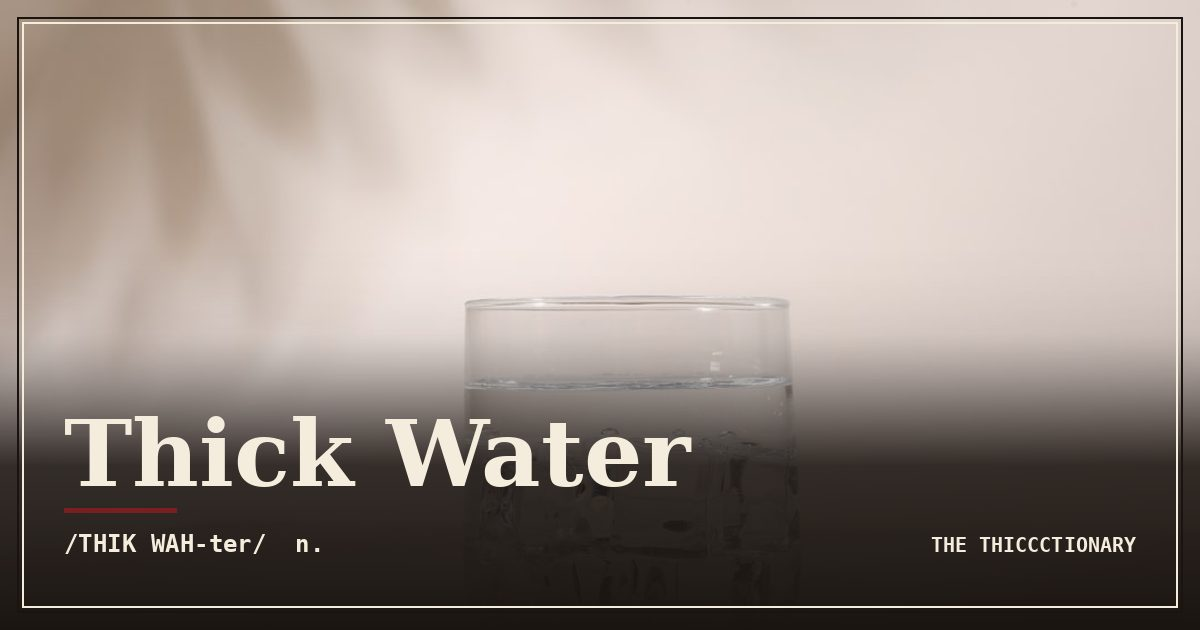
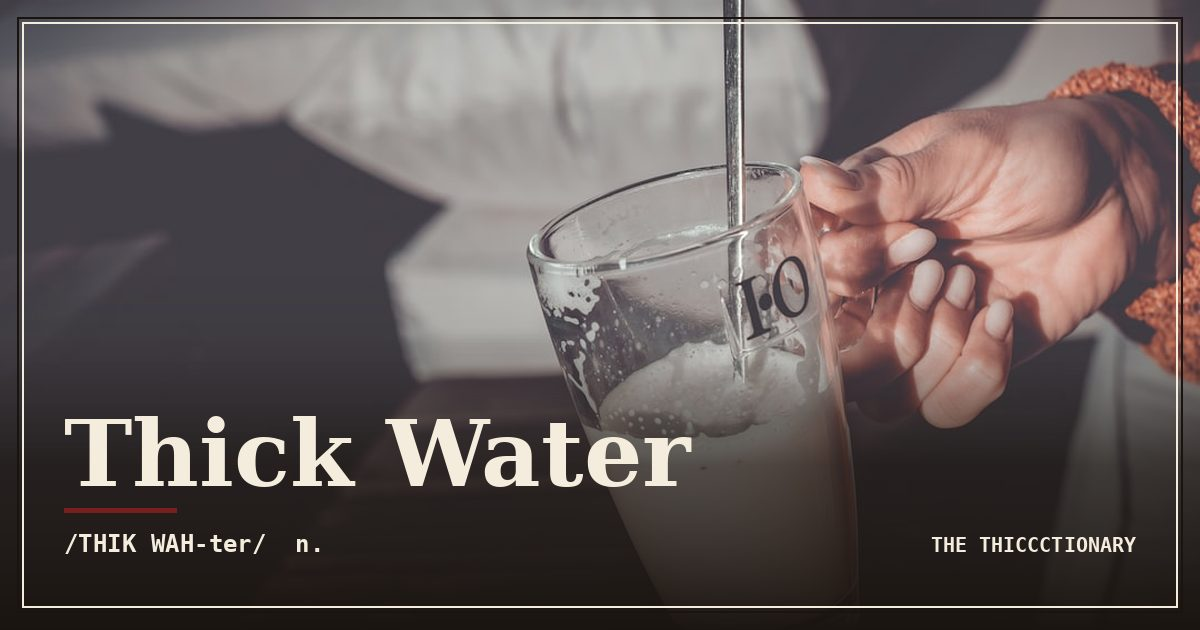
🖼 Regenerated images, (#217)
* Regen run log 30176471315

* Regenerate images for older entries (tuned prompt)

---------

diff --git a/entries/2026-04-14.html b/entries/2026-04-14.html
@@ -80,7 +80,7 @@
       "headline": "Thick Water, Thiccctionary",
       "name": "Thick Water",
       "description": "Thick Water: A pre-thickened drinking water formulated for individuals with dysphagia, sold in nectar, honey, and pudding consistencies per the IDDSI…",
-      "image": "https://thiccctionary.com/images/2026-04-14-thickened-water.jpg",
+      "image": "https://thiccctionary.com/images/2026-04-14-thick-water.jpg",
       "datePublished": "2026-04-14",
       "dateModified": "2026-04-14",
       "inLanguage": "en-US",
@@ -181,12 +181,12 @@
       <div class="entry-image-wrap">
         <div class="entry-image">
           <picture>
-            <source srcset="../images/2026-04-14-thickened-water.webp" type="image/webp" />
-            <img src="../images/2026-04-14-thickened-water.jpg" alt="A glass of water thickened to nectar consistency. It holds its shape where ordinary water would have moved on." width="600" height="600" loading="eager" decoding="async" data-pin-do="buttonHover" data-pin-url="https://thiccctionary.com/entries/2026-04-14.html" data-pin-media="https://thiccctionary.com/images/og/2026-04-14.jpg" data-pin-description="Thick Water, a Thiccctionary entry. A pre-thickened drinking water formulated for individuals with dysphagia, sold in nectar, honey, and pudding consistencies per the IDDSI framework. Drunk slowly. Reviewed with respect." />
+            <source srcset="../images/2026-04-14-thick-water.webp" type="image/webp" />
+            <img src="../images/2026-04-14-thick-water.jpg" alt="A glass of water thickened to nectar consistency. It holds its shape where ordinary water would have moved on." width="600" height="600" loading="eager" decoding="async" data-pin-do="buttonHover" data-pin-url="https://thiccctionary.com/entries/2026-04-14.html" data-pin-media="https://thiccctionary.com/images/og/2026-04-14.jpg" data-pin-description="Thick Water, a Thiccctionary entry. A pre-thickened drinking water formulated for individuals with dysphagia, sold in nectar, honey, and pudding consistencies per the IDDSI framework. Drunk slowly. Reviewed with respect." />
           </picture>
         </div>
         <p class="entry-caption">Plate IV., A glass of water thickened to nectar consistency. It holds its shape where ordinary water would have moved on.</p>
-        <p class="entry-credit">Photo by <a href="https://unsplash.com/@giorgiotrovato?utm_source=thiccctionary&amp;utm_medium=referral" target="_blank" rel="noopener">Giorgio Trovato</a> on <a href="https://unsplash.com/?utm_source=thiccctionary&utm_medium=referral" target="_blank" rel="noopener">Unsplash</a></p>
+        <p class="entry-credit">Photo by <a href="https://unsplash.com/@couleuroriginal?utm_source=thiccctionary&amp;utm_medium=referral" target="_blank" rel="noopener">Ilona Frey</a> on <a href="https://unsplash.com/?utm_source=thiccctionary&utm_medium=referral" target="_blank" rel="noopener">Unsplash</a></p>
       </div>
 
       <div class="entry-text">
@@ -254,7 +254,7 @@
     <section class="entry-sources" aria-label="Sources and editorial notes" style="margin: 56px 0 0; padding: 28px 24px; border-top: 1px solid var(--rule); font-size: 14px; line-height: 1.6;">
     <h3 style="font-family: var(--font-mono); font-size: 11px; letter-spacing: 0.2em; text-transform: uppercase; color: var(--oxblood); margin: 0 0 1rem; font-weight: 600;">Sources</h3>
     <ol style="margin: 0; padding-left: 1.5rem; color: var(--ink-soft);">
-      <li style="margin-bottom: 0.5rem;">Photograph by <a href="https://unsplash.com/@giorgiotrovato" target="_blank" rel="noopener">Giorgio Trovato</a>, via <a href="https://unsplash.com/photos/clear-drinking-glass-on-white-table-Hj4QiV9MTi8" target="_blank" rel="noopener">Unsplash</a>. Catalogued under plate IV.</li>
+      <li style="margin-bottom: 0.5rem;">Photograph by <a href="https://unsplash.com/@couleuroriginal" target="_blank" rel="noopener">Ilona Frey</a>, via <a href="https://unsplash.com/photos/a-person-is-holding-a-glass-of-milk-_WOCm2k1qik" target="_blank" rel="noopener">Unsplash</a>. Catalogued under plate IV.</li>
       <li style="margin-bottom: 0.5rem;">Direct ruling URL: <a href="../is/thick-water-thiccc/">thiccctionary.com/is/thick-water-thiccc/</a> &mdash; the shareable "Is a thick water thiccc?" page.</li>
       <li style="margin-bottom: 0.5rem;">Cross-reference: <a href="../a-z.html#T">Thiccctionary A-Z, T</a>.</li>
       <li style="margin-bottom: 0.5rem;">Catalogued under: <a href="../category/domestic-goods/">Domestic Goods</a>. See related entries below.</li>

diff --git a/is/thick-water-thiccc/index.html b/is/thick-water-thiccc/index.html
@@ -43,7 +43,7 @@
       "url": "https://thiccctionary.com/is/thick-water-thiccc/",
       "headline": "Is a Thick Water thiccc?",
       "description": "Yes, a thick water is officially thiccc per the Thiccctionary. A pre-thickened drinking water formulated for individuals with dysphagia, sold in nectar…",
-      "image": "https://thiccctionary.com/images/2026-04-14-thickened-water.jpg",
+      "image": "https://thiccctionary.com/images/2026-04-14-thick-water.jpg",
       "datePublished": "2026-04-14",
       "author": {
         "@type": "Organization",
@@ -167,8 +167,8 @@
       <div class="entry-image-wrap">
         <div class="entry-image">
           <picture>
-            <source srcset="/images/2026-04-14-thickened-water.webp" type="image/webp" />
-            <img src="/images/2026-04-14-thickened-water.jpg" alt="Thick Water, a thiccc subject" width="600" height="600" loading="eager" decoding="async" />
+            <source srcset="/images/2026-04-14-thick-water.webp" type="image/webp" />
+            <img src="/images/2026-04-14-thick-water.jpg" alt="Thick Water, a thiccc subject" width="600" height="600" loading="eager" decoding="async" />
           </picture>
         </div>
         <p class="entry-caption">Plate IV., A glass of water thickened to nectar consistency. It holds its shape where ordinary water would have moved on.</p>

diff --git a/category/domestic-goods/index.html b/category/domestic-goods/index.html
@@ -358,7 +358,7 @@
   </li>
   <li class="cat-card">
     <a href="/entries/2026-04-14.html">
-      <img src="/images/2026-04-14-thickened-water.jpg" alt="A glass of water thickened to nectar consistency. It holds its shape where ordinary water would have moved on." loading="lazy" width="800" height="600" />
+      <img src="/images/2026-04-14-thick-water.jpg" alt="A glass of water thickened to nectar consistency. It holds its shape where ordinary water would have moved on." loading="lazy" width="800" height="600" />
       <div class="cat-card-body">
         <p class="cat-card-word">Thick Water</p>
         <p class="cat-card-def">A pre-thickened drinking water formulated for individuals with dysphagia, sold in nectar, honey, and pudding consistencies per the IDDSI framework.</p>

diff --git a/audits/regen-last-run.md b/audits/regen-last-run.md
@@ -3,11 +3,11 @@
 Written by scripts/regenerate-images.js and committed by the workflow with
 `if: always()`, so it exists even when the run exits non-zero and opens no PR.
 
-- **Run:** [30176290657](https://github.com/christopherlhicks29-create/thiccctionary/actions/runs/30176290657)
-- **Dates requested:** `2026-05-26`
-- **Subject override:** `antique floor standing globe on stand|large world globe on wooden stand|floor globe`
+- **Run:** [30176471315](https://github.com/christopherlhicks29-create/thiccctionary/actions/runs/30176471315)
+- **Dates requested:** `2026-04-14`
+- **Subject override:** `thickened water in a clear cup with spoon|glass of thick liquid held in hand|glass of water`
 - **Result:** 1 replaced
 
 | Date | Word | Outcome | Detail |
 | --- | --- | --- | --- |
-| 2026-05-26 | Globe, Library Floor Model | **replaced** | images/2026-05-26-globe-library-floor-model-ha4f.jpg <- https://unsplash.com/photos/two-antique-globes-stand-in-a-dimly-lit-room-jV-pxYr-qsY (score=7, subject%=35, saw "two antique floor standing globes on wooden stands", stranger sees "antique globes") |
+| 2026-04-14 | Thick Water | **replaced** | images/2026-04-14-thick-water.jpg <- https://unsplash.com/photos/a-person-is-holding-a-glass-of-milk-_WOCm2k1qik (score=7, subject%=30, saw "a glass of thickened water with a spoon held in hand", stranger sees "a glass of thick liquid") |
